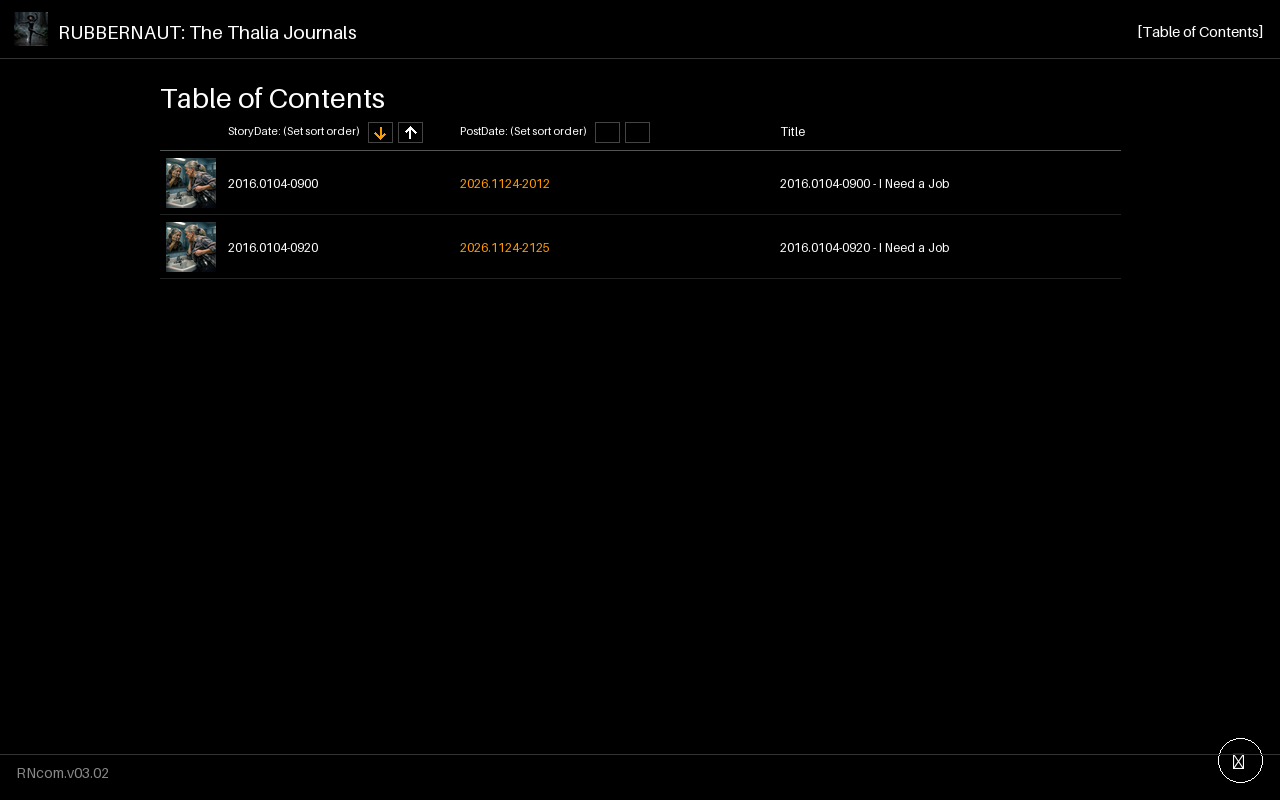
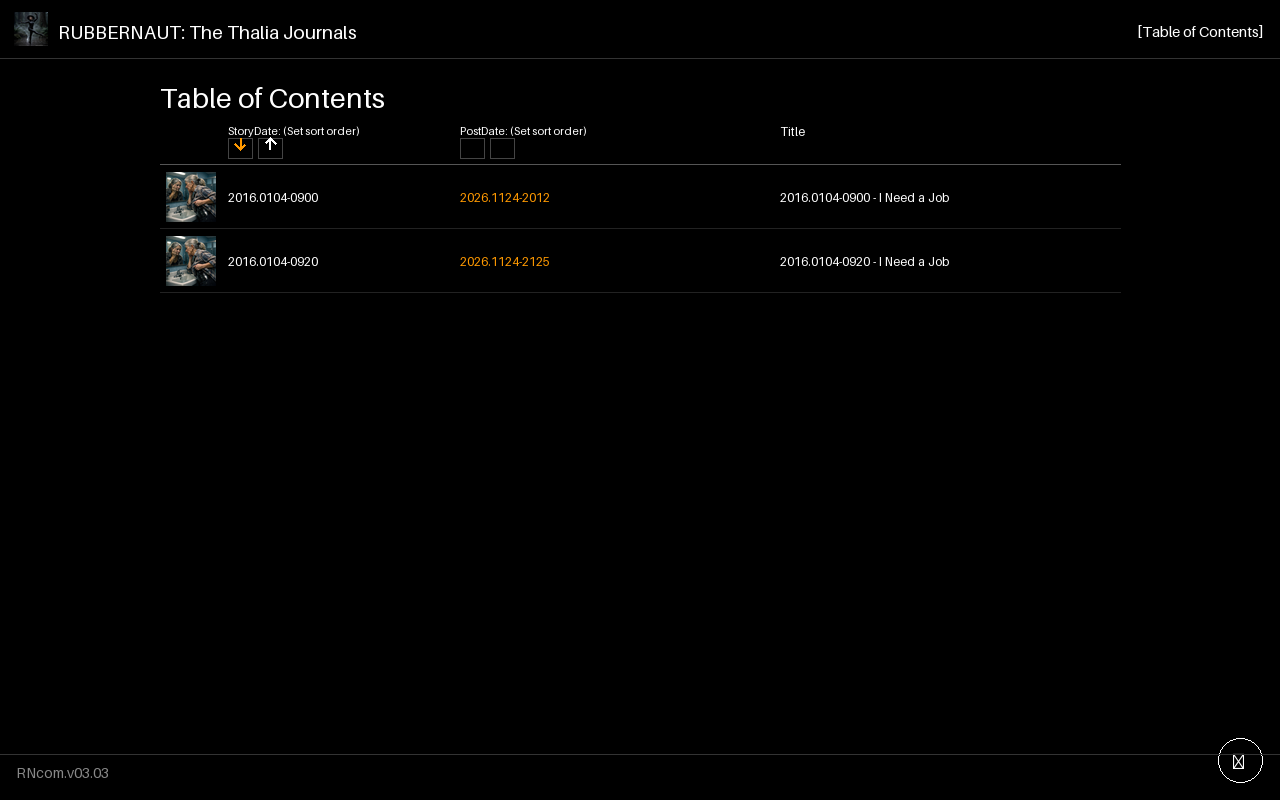
RNcom v03.03: fix TOC header overflow — two-line headers (label + arrows), fixed table layout, wider date columns
Screenshot showed '(Set sort order)' labels colliding with sort arrows and
dates cut off. th now wraps (label line, arrows line), table-layout fixed,
date columns 16%, thumb 56px.

diff --git a/assets/css/style.css b/assets/css/style.css
@@ -239,6 +239,7 @@ h1 {
 table.toc {
   width: 100%;
   border-collapse: collapse;
+  table-layout: fixed; /* respect column widths; let long header text wrap instead of overflowing */
   font-size: 12pt; /* TOC listing font size */
 }
 
@@ -264,12 +265,17 @@ table.toc th {
   top: 0;
   background: #000;
   border-bottom: 1px solid #555;
-  white-space: nowrap;
+  white-space: normal; /* allow the '(Set sort order)' label + arrows to wrap onto two lines */
+  overflow-wrap: anywhere;
+}
+
+table.toc td {
+  overflow-wrap: anywhere;
 }
 
 th.col-thumb,
 td.col-thumb {
-  width: 60px;
+  width: 56px;
 }
 
 .toc-thumb {
@@ -281,12 +287,12 @@ td.col-thumb {
 
 th.col-story,
 td.col-story {
-  width: 15%;
+  width: 16%;
 }
 
 th.col-pub,
 td.col-pub {
-  width: 15%;
+  width: 16%;
 }
 
 td.col-pub {

diff --git a/toc.md b/toc.md
@@ -10,11 +10,11 @@ permalink: /toc.html
 <thead>
 <tr>
   <th class="col-thumb"></th>
-  <th class="col-story">StoryDate: (Set sort order)
+  <th class="col-story">StoryDate: (Set sort order)<br/>
     <button type="button" class="sortbtn" data-sort="story-desc" title="newest first">&darr;</button>
     <button type="button" class="sortbtn" data-sort="story-asc" title="oldest first">&uarr;</button>
   </th>
-  <th class="col-pub">PostDate: (Set sort order)
+  <th class="col-pub">PostDate: (Set sort order)<br/>
     <button type="button" class="sortbtn" data-sort="pub-desc" title="newest first">&darr;</button>
     <button type="button" class="sortbtn" data-sort="pub-asc" title="oldest first">&uarr;</button>
   </th>

diff --git a/README.md b/README.md
@@ -81,5 +81,5 @@ remembers the path in `RNcom_publish_docx.config.txt` next to the script.
 ## Version
 
 The site calls itself **RNcom** and shows its version in the footer of every
-page (`rncom_version` in `_config.yml`, currently `v03.02`). Bump the second number with
+page (`rncom_version` in `_config.yml`, currently `v03.03`). Bump the second number with
 every group of changes, so you can always see at a glance which build is live.
